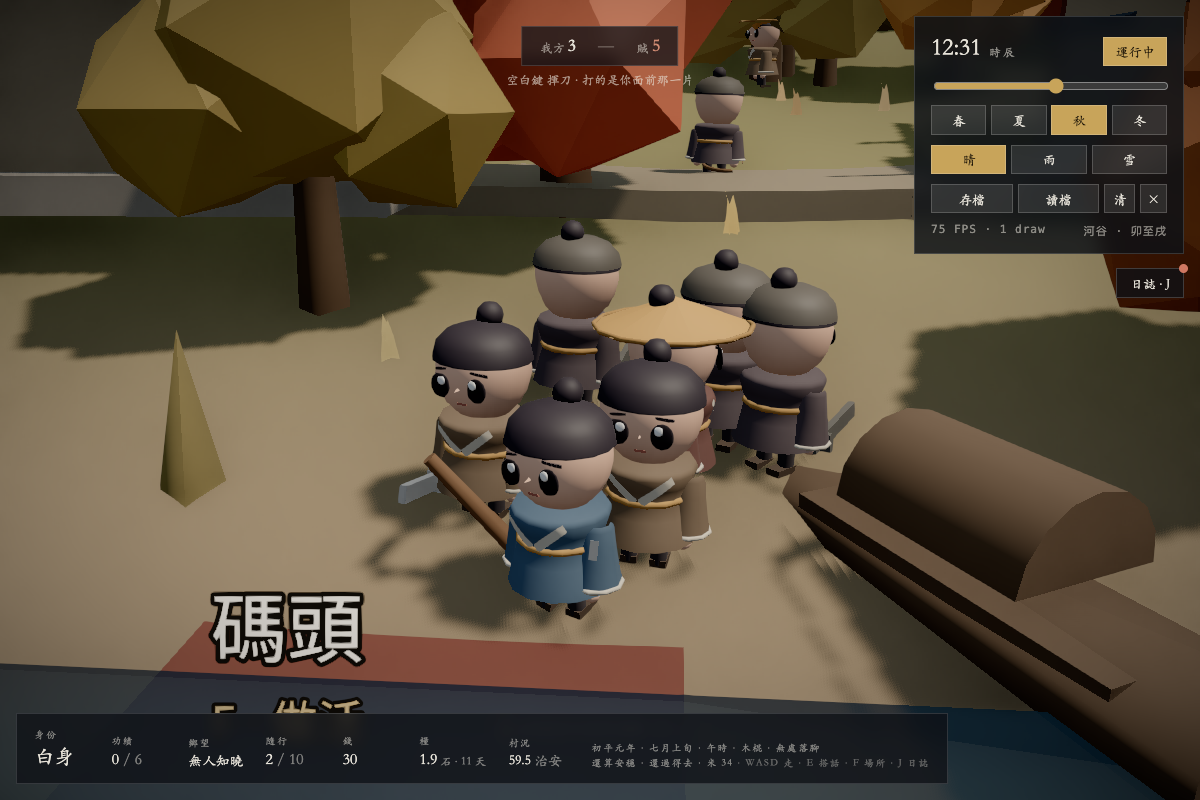
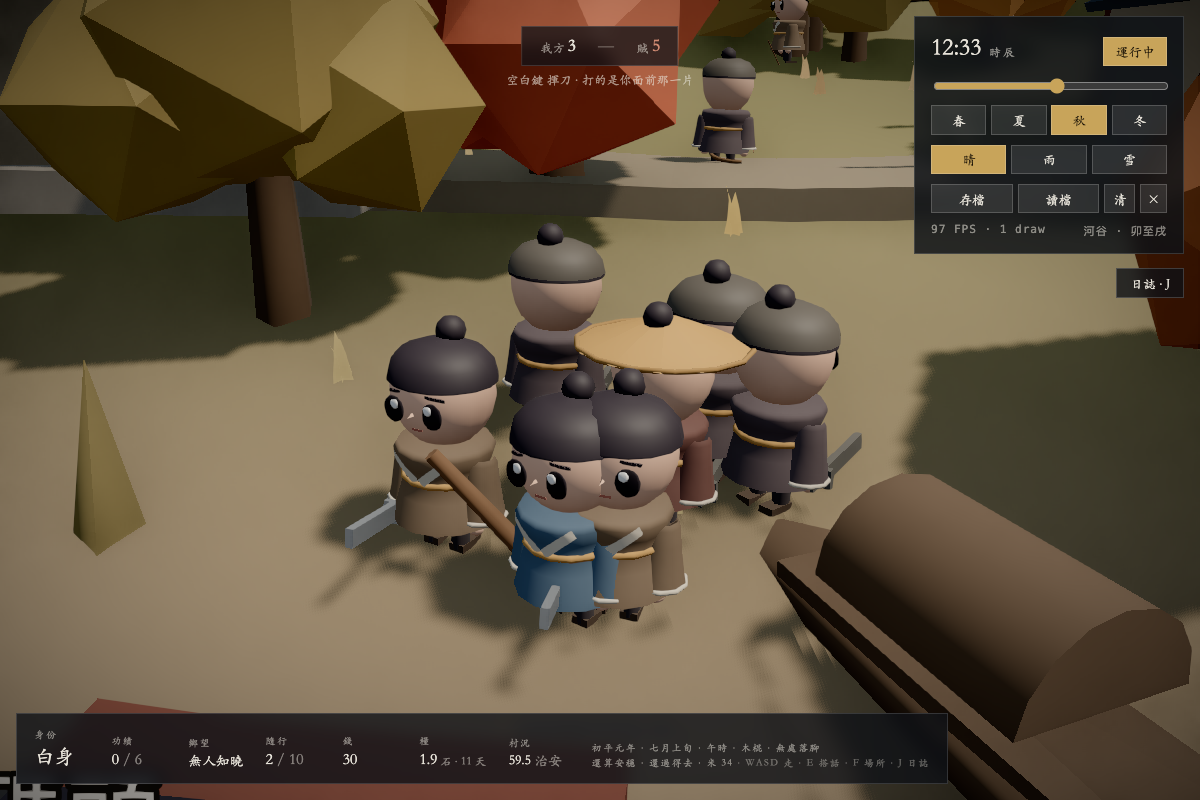
村民真的在幹活:鋤地、扛包,手上有傢伙
人會走會擺手以後,「走到田裡就站住不動」這一段空白就特別顯眼 ——
巳時到午時、未時到酉時,大半個白天全村人釘在田埂上,和發呆一模一樣。
世界看起來仍是個佈景,只是佈景裡的人會走路。

workPose(job, t, phase) 只調三件事:身子前傾多少、上下起伏多少、兩臂各擺到哪。
沒有骨架,但這三樣已經夠讀 —— 彎腰揮鋤和挺著站是兩個完全不同的剪影。

- 農:抬起來、劈下去。落得比抬得快(k² 把時間偏向前半段),那一下才有力氣。
- 埠:一肩扛著,身子往反側偏一點配重,腳下慢慢挪 —— 穩,不是在揮舞。
- 市:站著招呼人,偶爾比劃一下。

手上的傢伙(鋤、扁擔)原點也在肩,於是<b>和手臂共用同一個矩陣</b>——
手臂擺到哪它就跟到哪,不必另算一份跟隨。空手揮舞和握著鋤頭往下刨,
是「在比劃」和「在幹活」的差別。

一個試出來的邊界:手臂往前最多擺到 +0.6 弧度。再往前,兩隻廣袖橫著張開像翅膀,
讀作「伸手去夠」而不是「往下鋤」。這條寫進測試了。

驗收兩頭都不看圖 —— 田邊全是土坡和屋簷,機位擺了四次都埋在裡面,
而且彎腰幾度在截圖上本來就判不出來。改成:workPose 的幅度用單元測試釘;
接線讀每個人這一幀彎了多少腰(agent.lean),下田的該一直在變、扛包的該穩在
一個角度上、市面上的幾乎不動。實測農夫走完整輪 0.65→0.80→0.71→0.46→0.22,
埠工恆定 0.26。

diff --git a/src/world/Crowd.tsx b/src/world/Crowd.tsx
@@ -3,7 +3,7 @@ import { useFrame } from '@react-three/fiber';
 import * as THREE from 'three';
 import { groundAt, rng, slideMove, dryLandNear } from './field';
 import {
-  bodyGeom, headGeom, legGeom, legSwing, poseLeg, armGeom, armSwing, poseArm,
+  bodyGeom, headGeom, legGeom, legSwing, poseLeg, armGeom, armSwing, poseArm, workPose, toolGeom,
   FIG_BODY_H, FIG_LEG_H, FIG_SHOULDER_Y,
 } from './figure';
 import { houseSites, fieldSites, meanderAt, DOCKS, BRIDGE, MARKET } from './sites';
@@ -35,6 +35,8 @@ interface Agent {
   variant: number;
   /** 身量 —— 這個人比別人高矮胖瘦多少。 */
   build: number;
+  /** 這一幀彎了多少腰。只給驗收看 —— 做工的動作在截圖上判不出來。 */
+  lean: number;
   /** 上了年紀 —— 白髮、弓背、腳程慢。年紀要穿在身上,不能只寫在對話裡。 */
   old: boolean;
   home: [number, number];
@@ -131,6 +133,7 @@ export function Crowd() {
         npcId: villagers[i].id,
         variant,
         build,
+        lean: 0,
         old,
         home: [h.x, h.z], door: h.door, work, job,
         state: 'home',
@@ -165,6 +168,8 @@ export function Crowd() {
       head: headGeom(v.head),
       leg: legGeom(),
       arm: armGeom(new THREE.Color(v.robe)),
+      // 傢伙跟著行當走。變體 0/4 是農、1/5 是埠,其餘手上沒東西
+      tool: toolGeom(i % 4 === 0 ? 'farm' : i % 4 === 1 ? 'dock' : 'none'),
       idx: agents.map((a, k) => (a.variant === i ? k : -1)).filter((k) => k >= 0),
     })),
     [agents],
@@ -176,8 +181,13 @@ export function Crowd() {
       const byVariant: Record<number, number> = {};
       const builds = agents.map((a) => +a.build.toFixed(3));
       for (const a of agents) byVariant[a.variant] = (byVariant[a.variant] ?? 0) + 1;
-      return { n: agents.length, byVariant,
-               build: { min: Math.min(...builds), max: Math.max(...builds) } };
+      const byState: Record<string, number> = {};
+      for (const a of agents) byState[a.state] = (byState[a.state] ?? 0) + 1;
+      const working = agents.filter((a) => a.state === 'work');
+      return { n: agents.length, byVariant, byState,
+               build: { min: Math.min(...builds), max: Math.max(...builds) },
+               // 在工上的人此刻各彎了多少腰 —— 全是同一個數就是動作沒接上
+               workLean: working.slice(0, 6).map((a) => +a.lean.toFixed(3)) };
     };
   }, [agents]);
 
@@ -187,6 +197,8 @@ export function Crowd() {
   const legRefs = useRef<Array<Array<THREE.InstancedMesh | null>>>([[], []]);
   /** 左右手臂各一批。 */
   const armRefs = useRef<Array<Array<THREE.InstancedMesh | null>>>([[], []]);
+  /** 手上的傢伙 —— 和左手共用同一個矩陣。 */
+  const toolRefs = useRef<Array<THREE.InstancedMesh | null>>([]);
 
   useLayoutEffect(() => {
     // 矩陣每幀都在動,而包圍球是初始化時算的 —— 不關掉會被整批剔除
@@ -194,6 +206,7 @@ export function Crowd() {
     headRefs.current.forEach((m) => m && (m.frustumCulled = false));
     legRefs.current.forEach((row) => row.forEach((m) => m && (m.frustumCulled = false)));
     armRefs.current.forEach((row) => row.forEach((m) => m && (m.frustumCulled = false)));
+    toolRefs.current.forEach((m) => m && (m.frustumCulled = false));
   }, []);
 
   const tmp = useMemo(() => ({
@@ -288,6 +301,7 @@ export function Crowd() {
       const hm = headRefs.current[vi];
       const lm = [legRefs.current[0][vi], legRefs.current[1][vi]];
       const am = [armRefs.current[0][vi], armRefs.current[1][vi]];
+      const tm = toolRefs.current[vi];
       if (!bm || !hm || !lm[0] || !lm[1] || !am[0] || !am[1]) return;
       v.idx.forEach((ai, slot) => {
         const a = agents[ai];
@@ -299,16 +313,21 @@ export function Crowd() {
           lm[1]!.setMatrixAt(slot, tmp.m);
           am[0]!.setMatrixAt(slot, tmp.m);
           am[1]!.setMatrixAt(slot, tmp.m);
+          tm?.setMatrixAt(slot, tmp.m);
           return;
         }
         const moving = a.state === 'goWork' || a.state === 'goMarket' || a.state === 'goHome';
         const step = t * a.speed * 3.1 + a.phase;
-        const bob = moving ? Math.abs(Math.sin(step)) * 0.055
-          : Math.sin(t * 1.15 + a.phase) * 0.014;
+        // 在工上就做工的姿勢;其餘時候走路/站著
+        const wp = a.state === 'work' ? workPose(a.job, t, a.phase) : null;
+        const bob = wp ? wp.bob
+          : moving ? Math.abs(Math.sin(step)) * 0.055
+            : Math.sin(t * 1.15 + a.phase) * 0.014;
         const sway = moving ? Math.sin(step * 0.5) * 0.055 : 0;
         // 走路微微前傾,老人常年弓著背 —— 體態是不用寫字的年齡與狀態
-        const lean = (moving ? 0.055 : 0) + (a.old ? 0.10 : 0);
+        const lean = (wp ? wp.lean : moving ? 0.055 : 0) + (a.old ? 0.10 : 0);
 
+        a.lean = lean;
         tmp.p.set(a.x, a.y + bob, a.z);
         tmp.e.set(lean, a.yaw, sway);
         tmp.q.setFromEuler(tmp.e);
@@ -338,10 +357,15 @@ export function Crowd() {
             legSwing(step, side, moving), sc);
           tmp.leg.updateMatrix();
           lm[side < 0 ? 0 : 1]!.setMatrixAt(slot, tmp.leg.matrix);
+          // 做工的時候兩手照姿勢擺,不是走路的反相擺動
+          const armAng = wp ? (side < 0 ? wp.armL : wp.armR)
+            : armSwing(step, side, moving);
           poseArm(tmp.leg, side, a.x, a.y + bob + FIG_SHOULDER_Y * sc, a.z, a.yaw,
-            armSwing(step, side, moving), sc);
+            armAng, sc);
           tmp.leg.updateMatrix();
           am[side < 0 ? 0 : 1]!.setMatrixAt(slot, tmp.leg.matrix);
+          // 傢伙抄左手那一份矩陣 —— 同一個座標系,不必另算跟隨
+          if (side < 0) tm?.setMatrixAt(slot, tmp.leg.matrix);
         }
       });
       bm.instanceMatrix.needsUpdate = true;
@@ -350,6 +374,7 @@ export function Crowd() {
       lm[1]!.instanceMatrix.needsUpdate = true;
       am[0]!.instanceMatrix.needsUpdate = true;
       am[1]!.instanceMatrix.needsUpdate = true;
+      if (tm) tm.instanceMatrix.needsUpdate = true;
     });
   });
 
@@ -381,6 +406,15 @@ export function Crowd() {
               <meshStandardMaterial vertexColors roughness={0.8} />
             </instancedMesh>
           ))}
+          {v.tool && (
+            <instancedMesh
+              ref={(m) => { toolRefs.current[i] = m; }}
+              args={[v.tool, undefined, Math.max(1, v.idx.length)]}
+              castShadow
+            >
+              <meshStandardMaterial vertexColors roughness={0.7} />
+            </instancedMesh>
+          )}
           {[0, 1].map((side) => (
             <instancedMesh
               key={`a${side}`}

diff --git a/src/world/figure.ts b/src/world/figure.ts
@@ -560,3 +560,100 @@ export function headGeom(style: HeadStyle = {}) {
   return mergeGeometries(gs, false)!;
 }
 
+
+/**
+ * 做工的姿勢。
+ *
+ * 在這之前,村民走到田裡就<b>站住不動</b> —— 巳時到午時、未時到酉時,
+ * 大半個白天全村人釘在田埂上,和發呆一模一樣。人會走會擺手以後,
+ * 這一段空白就特別顯眼:世界看起來仍然是個佈景,只是佈景裡的人會走路。
+ *
+ * 姿勢只有三件事可調:身子前傾多少、上下起伏多少、兩條手臂各擺到哪。
+ * 沒有骨架,但這三樣已經夠讀 —— 彎腰揮鋤和挺著站是兩個完全不同的剪影。
+ */
+export interface WorkPose {
+  lean: number;
+  bob: number;
+  /** 左右手臂繞肩的角度(正 = 往前)。做工時兩手多半同進同出。 */
+  armL: number;
+  armR: number;
+}
+
+export function workPose(job: string, t: number, phase: number): WorkPose {
+  switch (job) {
+    case 'farm': {
+      /*
+       * 鋤地:抬起來、劈下去,一個週期。抬的時候身子直、手往後;
+       * 落的時候腰彎下去、手掃到前下方。
+       * 落得比抬得快 —— 用 k² 把時間偏向前半段,那一下才有力氣。
+       */
+      const raw = (Math.sin(t * 2.3 + phase) + 1) / 2;
+      const k = raw * raw;
+      // 手臂最多擺到 +0.6:再往前,兩隻廣袖就橫著張開像翅膀,
+      // 讀作「伸手去夠」而不是「往下鋤」
+      return { lean: 0.10 + k * 0.70, bob: -k * 0.045, armL: -0.85 + k * 1.45,
+               armR: -0.85 + k * 1.45 };
+    }
+    case 'dock': {
+      // 扛包:一肩扛著,身子往反側偏一點配重,腳下慢慢挪
+      const s = Math.sin(t * 1.1 + phase);
+      return { lean: 0.26, bob: Math.abs(s) * 0.03,
+               armL: -1.15 + s * 0.10, armR: -0.35 };
+    }
+    case 'wood': {
+      // 砍柴:掄圓了往下劈,幅度比鋤地大
+      const raw = (Math.sin(t * 1.9 + phase) + 1) / 2;
+      const k = raw * raw;
+      return { lean: 0.06 + k * 0.50, bob: -k * 0.06, armL: -1.4 + k * 2.2,
+               armR: -1.4 + k * 2.2 };
+    }
+    default: {
+      // 市面上的:站著招呼人,偶爾比劃一下
+      const s = Math.sin(t * 0.9 + phase);
+      const g = Math.max(0, Math.sin(t * 0.37 + phase * 2.1));
+      return { lean: 0.04, bob: s * 0.012, armL: -0.10 - g * 0.55, armR: -0.05 };
+    }
+  }
+}
+
+/**
+ * 手上的傢伙 —— 原點在<b>肩</b>,和手臂同一個座標系。
+ *
+ * 這樣一來它<b>和手臂共用同一個矩陣</b>:手臂擺到哪,鋤頭就跟到哪,
+ * 不必另算一份跟隨。空手揮舞和握著鋤頭往下刨,是「在比劃」和「在幹活」的差別。
+ *
+ * 回 null = 這個行當手上沒東西(市面上的、上了年紀的)。
+ */
+export function toolGeom(job: string): THREE.BufferGeometry | null {
+  const WOOD = new THREE.Color('#6b4a2c');
+  const IRON = new THREE.Color('#7d7a72');
+  const [hx, hy, hz] = FIG_HAND;
+  const gs: THREE.BufferGeometry[] = [];
+  if (job === 'farm') {
+    // 鋤:一根桿,末端一片橫刃
+    gs.push(tint(at(rot(new THREE.CylinderGeometry(FIG_HR * 0.035, FIG_HR * 0.035,
+      FIG_BODY_H * 0.95, 5), -0.5, 0, 0),
+      hx, hy - FIG_BODY_H * 0.16, hz - FIG_BODY_H * 0.30), WOOD));
+    gs.push(tint(at(rot(slab(FIG_HR * 0.34, FIG_HR * 0.06, FIG_HR * 0.22), 0.5, 0, 0),
+      hx, hy - FIG_BODY_H * 0.55, hz - FIG_BODY_H * 0.72), IRON));
+  } else if (job === 'dock') {
+    // 扁擔:橫在肩上的一根,兩頭各吊一件
+    gs.push(tint(at(rot(new THREE.CylinderGeometry(FIG_HR * 0.045, FIG_HR * 0.045,
+      FIG_BODY_H * 1.5, 5), 0, 0, Math.PI / 2),
+      hx * 0.2, hy + FIG_BODY_H * 0.62, hz + FIG_HR * 0.1), WOOD));
+    for (const e of [-1, 1]) {
+      gs.push(tint(at(new THREE.BoxGeometry(FIG_HR * 0.34, FIG_HR * 0.30, FIG_HR * 0.30),
+        hx * 0.2 + e * FIG_BODY_H * 0.62, hy + FIG_BODY_H * 0.34, hz + FIG_HR * 0.1),
+        new THREE.Color('#8a7550')));
+    }
+  } else if (job === 'wood') {
+    gs.push(tint(at(rot(new THREE.CylinderGeometry(FIG_HR * 0.04, FIG_HR * 0.04,
+      FIG_BODY_H * 0.8, 5), -0.5, 0, 0),
+      hx, hy - FIG_BODY_H * 0.14, hz - FIG_BODY_H * 0.26), WOOD));
+    gs.push(tint(at(rot(slab(FIG_HR * 0.10, FIG_HR * 0.30, FIG_HR * 0.26), 0.5, 0, 0),
+      hx, hy - FIG_BODY_H * 0.46, hz - FIG_BODY_H * 0.60), IRON));
+  } else {
+    return null;
+  }
+  return mergeGeometries(gs, false)!;
+}

diff --git a/src/world/figure.test.ts b/src/world/figure.test.ts
@@ -1,7 +1,7 @@
 import { describe, it, expect } from 'vitest';
 import * as THREE from 'three';
 import {
-  bodyGeom, headGeom, legGeom, armGeom, radiusAt, legSwing, armSwing,
+  bodyGeom, headGeom, legGeom, armGeom, radiusAt, legSwing, armSwing, workPose, toolGeom,
   HEAD_P, BODY_P, FACE_SQUASH, LIP, BROW, TRIM,
   FIG_H, FIG_HR, FIG_BODY_H, FIG_LEG_H,
 } from './figure';
@@ -138,5 +138,51 @@ describe('邁步', () => {
     expect(bb.max.y).toBeLessThan(FIG_HR * 0.4);
     expect(bb.min.y).toBeGreaterThan(-FIG_BODY_H * 0.75);
     expect(bb.min.y).toBeLessThan(-FIG_BODY_H * 0.45);
+  });
+});
+
+describe('做工的姿勢', () => {
+  /** 一個週期裡取樣,看這個行當到底動了多少。 */
+  function span(job: string) {
+    let lo = { lean: 9, arm: 9 }, hi = { lean: -9, arm: -9 };
+    for (let i = 0; i < 60; i++) {
+      const w = workPose(job, i * 0.1, 0);
+      lo = { lean: Math.min(lo.lean, w.lean), arm: Math.min(lo.arm, w.armL) };
+      hi = { lean: Math.max(hi.lean, w.lean), arm: Math.max(hi.arm, w.armL) };
+    }
+    return { lean: hi.lean - lo.lean, arm: hi.arm - lo.arm, leanMax: hi.lean };
+  }
+
+  it('下田的人真的在動 —— 站著發呆和彎腰揮鋤是兩個剪影', () => {
+    const farm = span('farm');
+    // 腰要彎得看得出來(至少三十度),手要掄得過半徑一弧度
+    expect(farm.leanMax).toBeGreaterThan(0.5);
+    expect(farm.lean).toBeGreaterThan(0.4);
+    expect(farm.arm).toBeGreaterThan(1.0);
+  });
+
+  it('手臂不會往前掄過頭 —— 過了就成了兩隻張開的翅膀', () => {
+    for (const job of ['farm', 'dock', 'wood', 'market']) {
+      for (let i = 0; i < 60; i++) {
+        const w = workPose(job, i * 0.1, 0);
+        expect(w.armL, `${job} 掄過頭`).toBeLessThan(1.15);
+        expect(w.armR, `${job} 掄過頭`).toBeLessThan(1.15);
+      }
+    }
+  });
+
+  it('扛包的人是穩的,不是在揮舞 —— 各行當的動作要分得出來', () => {
+    expect(span('dock').arm).toBeLessThan(span('farm').arm);
+    expect(span('market').lean).toBeLessThan(span('farm').lean);
+  });
+
+  it('手上的傢伙:農有鋤、埠有擔,市面上的空手', () => {
+    expect(toolGeom('farm')).not.toBeNull();
+    expect(toolGeom('dock')).not.toBeNull();
+    expect(toolGeom('market')).toBeNull();
+    // 傢伙和手臂同一個座標系(原點在肩),所以整件都在肩以下
+    const hoe = toolGeom('farm')!;
+    hoe.computeBoundingBox();
+    expect(hoe.boundingBox!.max.y).toBeLessThan(0);
   });
 });
